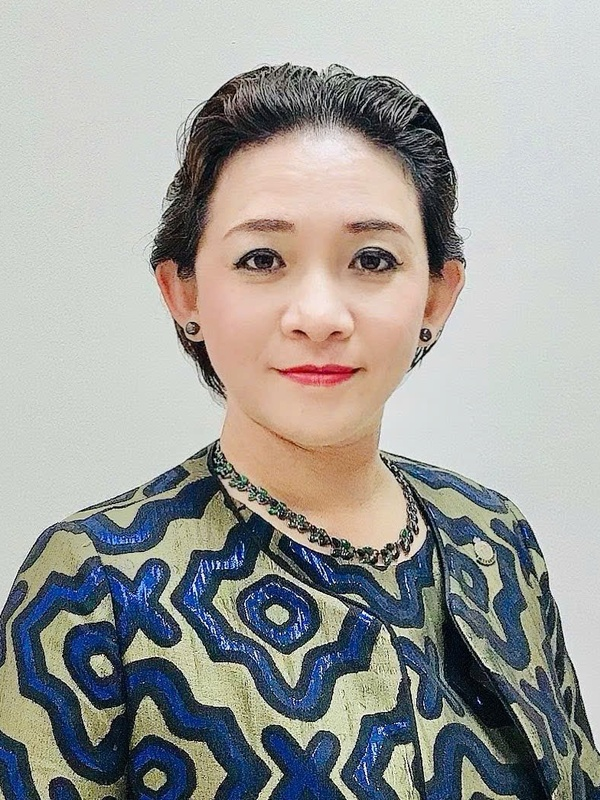
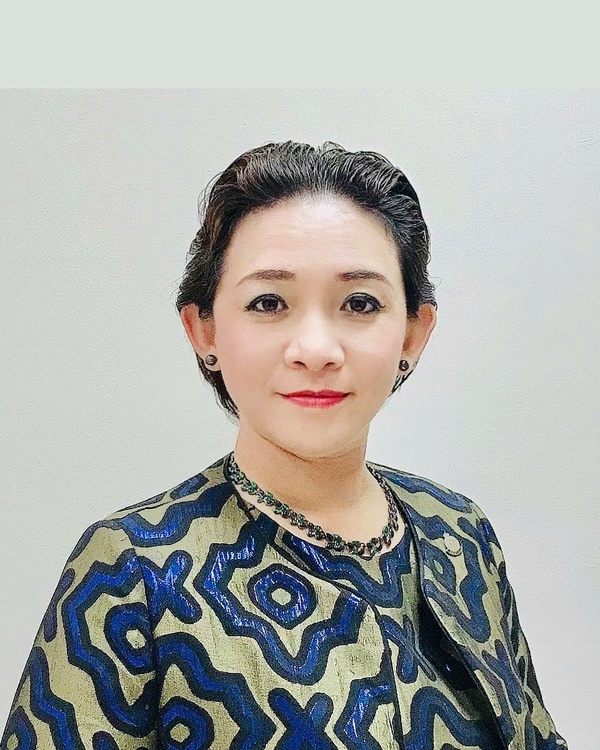
fix(team-photos): chuẩn hóa tỷ lệ chân dung aspect-[4/5] và đệm khoảng trống headroom cho toàn bộ 6 nhân sự, loại bỏ hoàn toàn việc bị cắt mặt/mất tóc

diff --git a/index.html b/index.html
@@ -663,14 +663,14 @@
         
         <!-- Member 1: LS Thảo -->
         <div class="bg-slate-50 rounded-2xl overflow-hidden border border-slate-200 shadow-sm hover:shadow-lg transition flex flex-col group">
-          <div class="h-80 overflow-hidden bg-slate-200">
-            <img src="assets/uploads/team/ls_pham_thi_thanh_thao_card.jpg" alt="Luật sư Phạm Thị Thanh Thảo" class="w-full h-full object-cover object-top group-hover:scale-105 transition duration-300" />
+          <div class="aspect-[4/5] overflow-hidden bg-slate-100 relative">
+            <img src="assets/uploads/team/ls_pham_thi_thanh_thao_card.jpg" alt="Luật sư Phạm Thị Thanh Thảo" class="w-full h-full object-cover object-top group-hover:scale-105 transition duration-500" />
           </div>
           <div class="p-6 flex-1 flex flex-col justify-between space-y-3">
             <div>
               <span class="text-xs font-bold text-brand-red uppercase tracking-wider block">Luật sư Điều hành</span>
               <h3 class="text-xl font-bold text-navy-900 mt-1">Luật sư Phạm Thị Thanh Thảo</h3>
-              <p class="text-sm text-slate-600 font-normal mt-2 leading-relaxed">
+              <p class="text-sm text-slate-600 font-normal mt-2 leading-relaxed text-justify">
                 Thạc sỹ Luật (ĐH Luật TP.HCM), Cử nhân Kinh tế, Cử nhân Luật. Nhiều năm kinh nghiệm pháp lý khách sạn, logistic cảng biển, doanh nghiệp, lao động và dân sự.
               </p>
             </div>
@@ -682,14 +682,14 @@
 
         <!-- Member 2: LS Sơn -->
         <div class="bg-slate-50 rounded-2xl overflow-hidden border border-slate-200 shadow-sm hover:shadow-lg transition flex flex-col group">
-          <div class="h-80 overflow-hidden bg-slate-200">
-            <img src="assets/uploads/team/ls_nguyen_thanh_son_card.jpg" alt="Luật sư Nguyễn Thành Sơn" class="w-full h-full object-cover object-top group-hover:scale-105 transition duration-300" />
+          <div class="aspect-[4/5] overflow-hidden bg-slate-100 relative">
+            <img src="assets/uploads/team/ls_nguyen_thanh_son_card.jpg" alt="Luật sư Nguyễn Thành Sơn" class="w-full h-full object-cover object-top group-hover:scale-105 transition duration-500" />
           </div>
           <div class="p-6 flex-1 flex flex-col justify-between space-y-3">
             <div>
               <span class="text-xs font-bold text-brand-red uppercase tracking-wider block">Giám đốc cấp cao</span>
               <h3 class="text-xl font-bold text-navy-900 mt-1">Luật sư Nguyễn Thành Sơn</h3>
-              <p class="text-sm text-slate-600 font-normal mt-2 leading-relaxed">
+              <p class="text-sm text-slate-600 font-normal mt-2 leading-relaxed text-justify">
                 Thạc sỹ Luật, nguyên Kiểm sát viên VKSND Tối cao tại TP.HCM, nguyên Phó Viện trưởng Học viện Tư pháp TP.HCM. Hơn 30 năm công tác trong ngành luật.
               </p>
             </div>
@@ -701,14 +701,14 @@
 
         <!-- Member 3: Cố vấn Thủy -->
         <div class="bg-slate-50 rounded-2xl overflow-hidden border border-slate-200 shadow-sm hover:shadow-lg transition flex flex-col group">
-          <div class="h-80 overflow-hidden bg-slate-200">
-            <img src="assets/uploads/team/co_van_ha_thanh_thuy_card.jpg" alt="Bà Hà Thanh Thủy" class="w-full h-full object-cover object-top group-hover:scale-105 transition duration-300" />
+          <div class="aspect-[4/5] overflow-hidden bg-slate-100 relative">
+            <img src="assets/uploads/team/co_van_ha_thanh_thuy_card.jpg" alt="Bà Hà Thanh Thủy" class="w-full h-full object-cover object-top group-hover:scale-105 transition duration-500" />
           </div>
           <div class="p-6 flex-1 flex flex-col justify-between space-y-3">
             <div>
               <span class="text-xs font-bold text-brand-red uppercase tracking-wider block">Cố vấn cấp cao</span>
               <h3 class="text-xl font-bold text-navy-900 mt-1">Luật gia Hà Thanh Thủy</h3>
-              <p class="text-sm text-slate-600 font-normal mt-2 leading-relaxed">
+              <p class="text-sm text-slate-600 font-normal mt-2 leading-relaxed text-justify">
                 Nguyên Thẩm phán TAND TP.HCM với hơn 30 năm kinh nghiệm trực tiếp xét xử các loại án dân sự, tranh chấp đất đai, kinh tế, hành chính và hôn nhân gia đình.
               </p>
             </div>
@@ -720,14 +720,14 @@
 
         <!-- Member 4: Cố vấn Uyên -->
         <div class="bg-slate-50 rounded-2xl overflow-hidden border border-slate-200 shadow-sm hover:shadow-lg transition flex flex-col group">
-          <div class="h-80 overflow-hidden bg-slate-200">
-            <img src="assets/uploads/team/co_van_le_thuy_dieu_uyen_card.jpg" alt="Bà Lê Thụy Diệu Uyên" class="w-full h-full object-cover object-top group-hover:scale-105 transition duration-300" />
+          <div class="aspect-[4/5] overflow-hidden bg-slate-100 relative">
+            <img src="assets/uploads/team/co_van_le_thuy_dieu_uyen_card.jpg" alt="Bà Lê Thụy Diệu Uyên" class="w-full h-full object-cover object-top group-hover:scale-105 transition duration-500" />
           </div>
           <div class="p-6 flex-1 flex flex-col justify-between space-y-3">
             <div>
               <span class="text-xs font-bold text-brand-red uppercase tracking-wider block">Cố vấn cấp cao</span>
               <h3 class="text-xl font-bold text-navy-900 mt-1">Bà Lê Thụy Diệu Uyên</h3>
-              <p class="text-sm text-slate-600 font-normal mt-2 leading-relaxed">
+              <p class="text-sm text-slate-600 font-normal mt-2 leading-relaxed text-justify">
                 Thạc sĩ Kinh tế tại Nhật Bản, Cử nhân Luật tại Việt Nam, NCS. Nhiều năm quản lý điều hành doanh nghiệp Nhật Bản; chuyên sâu Quản trị rủi ro, tái cấu trúc & M&A.
               </p>
             </div>
@@ -739,14 +739,14 @@
 
         <!-- Member 5: Luật gia Hoa -->
         <div class="bg-slate-50 rounded-2xl overflow-hidden border border-slate-200 shadow-sm hover:shadow-lg transition flex flex-col group">
-          <div class="h-80 overflow-hidden bg-slate-200">
-            <img src="assets/uploads/team/luat_gia_truong_thi_kim_hoa_card.jpg" alt="Bà Trương Thị Kim Hoa" class="w-full h-full object-cover object-top group-hover:scale-105 transition duration-300" />
+          <div class="aspect-[4/5] overflow-hidden bg-slate-100 relative">
+            <img src="assets/uploads/team/luat_gia_truong_thi_kim_hoa_card.jpg" alt="Bà Trương Thị Kim Hoa" class="w-full h-full object-cover object-top group-hover:scale-105 transition duration-500" />
           </div>
           <div class="p-6 flex-1 flex flex-col justify-between space-y-3">
             <div>
               <span class="text-xs font-bold text-brand-red uppercase tracking-wider block">Trưởng phòng Đăng ký – Giấy phép</span>
               <h3 class="text-xl font-bold text-navy-900 mt-1">ThS. Luật gia Trương Thị Kim Hoa</h3>
-              <p class="text-sm text-slate-600 font-normal mt-2 leading-relaxed">
+              <p class="text-sm text-slate-600 font-normal mt-2 leading-relaxed text-justify">
                 Thạc sỹ Luật (ĐH Luật TP.HCM), nguyên Công chức Tư pháp - hộ tịch UBND. Chuyên sâu thủ tục hành chính, giấy phép lưu trú người nước ngoài, đầu tư, SHTT.
               </p>
             </div>
@@ -758,14 +758,14 @@
 
         <!-- Member 6: CV Nguyên -->
         <div class="bg-slate-50 rounded-2xl overflow-hidden border border-slate-200 shadow-sm hover:shadow-lg transition flex flex-col group">
-          <div class="h-80 overflow-hidden bg-slate-200">
-            <img src="assets/uploads/team/chuyen_vien_huynh_phuong_nguyen_card.jpg" alt="Bà Huỳnh Phương Nguyên" class="w-full h-full object-cover object-top group-hover:scale-105 transition duration-300" />
+          <div class="aspect-[4/5] overflow-hidden bg-slate-100 relative">
+            <img src="assets/uploads/team/chuyen_vien_huynh_phuong_nguyen_card.jpg" alt="Bà Huỳnh Phương Nguyên" class="w-full h-full object-cover object-top group-hover:scale-105 transition duration-500" />
           </div>
           <div class="p-6 flex-1 flex flex-col justify-between space-y-3">
             <div>
               <span class="text-xs font-bold text-brand-red uppercase tracking-wider block">Chuyên viên pháp lý</span>
               <h3 class="text-xl font-bold text-navy-900 mt-1">Bà Huỳnh Phương Nguyên</h3>
-              <p class="text-sm text-slate-600 font-normal mt-2 leading-relaxed">
+              <p class="text-sm text-slate-600 font-normal mt-2 leading-relaxed text-justify">
                 Nhiều năm kinh nghiệm làm việc trong lĩnh vực pháp chế doanh nghiệp, rà soát hợp đồng kinh tế và kiểm soát tuân thủ quy trình nội bộ.
               </p>
             </div>

diff --git a/luat-su/index.html b/luat-su/index.html
@@ -380,7 +380,7 @@
         
         <!-- Profile 1: LS Thảo -->
         <div class="bg-white rounded-2xl p-7 sm:p-8 shadow-sm border border-slate-200 flex flex-col sm:flex-row gap-6 items-center sm:items-start hover:shadow-lg transition">
-          <img src="../assets/uploads/team/ls_pham_thi_thanh_thao_card.jpg" alt="Luật sư Phạm Thị Thanh Thảo" class="w-48 h-64 rounded-xl object-cover object-top flex-shrink-0 shadow" />
+          <img src="../assets/uploads/team/ls_pham_thi_thanh_thao_card.jpg" alt="Luật sư Phạm Thị Thanh Thảo" class="w-48 sm:w-56 aspect-[4/5] rounded-xl object-cover object-top flex-shrink-0 shadow border border-slate-200" />
           <div class="space-y-3 text-center sm:text-left flex-1">
             <div>
               <h3 class="text-xl font-bold text-navy-900">Luật sư Phạm Thị Thanh Thảo</h3>
@@ -399,7 +399,7 @@
 
         <!-- Profile 2: LS Sơn -->
         <div class="bg-white rounded-2xl p-7 sm:p-8 shadow-sm border border-slate-200 flex flex-col sm:flex-row gap-6 items-center sm:items-start hover:shadow-lg transition">
-          <img src="../assets/uploads/team/ls_nguyen_thanh_son_card.jpg" alt="Luật sư Nguyễn Thành Sơn" class="w-48 h-64 rounded-xl object-cover object-top flex-shrink-0 shadow" />
+          <img src="../assets/uploads/team/ls_nguyen_thanh_son_card.jpg" alt="Luật sư Nguyễn Thành Sơn" class="w-48 sm:w-56 aspect-[4/5] rounded-xl object-cover object-top flex-shrink-0 shadow border border-slate-200" />
           <div class="space-y-3 text-center sm:text-left flex-1">
             <div>
               <h3 class="text-xl font-bold text-navy-900">Luật sư Nguyễn Thành Sơn</h3>
@@ -418,7 +418,7 @@
 
         <!-- Profile 3: Cố vấn Thủy -->
         <div class="bg-white rounded-2xl p-7 sm:p-8 shadow-sm border border-slate-200 flex flex-col sm:flex-row gap-6 items-center sm:items-start hover:shadow-lg transition">
-          <img src="../assets/uploads/team/co_van_ha_thanh_thuy_card.jpg" alt="Luật gia Hà Thanh Thủy" class="w-48 h-64 rounded-xl object-cover object-top flex-shrink-0 shadow" />
+          <img src="../assets/uploads/team/co_van_ha_thanh_thuy_card.jpg" alt="Luật gia Hà Thanh Thủy" class="w-48 sm:w-56 aspect-[4/5] rounded-xl object-cover object-top flex-shrink-0 shadow border border-slate-200" />
           <div class="space-y-3 text-center sm:text-left flex-1">
             <div>
               <h3 class="text-xl font-bold text-navy-900">Bà Hà Thanh Thủy</h3>
@@ -436,7 +436,7 @@
 
         <!-- Profile 4: Cố vấn Uyên -->
         <div class="bg-white rounded-2xl p-7 sm:p-8 shadow-sm border border-slate-200 flex flex-col sm:flex-row gap-6 items-center sm:items-start hover:shadow-lg transition">
-          <img src="../assets/uploads/team/co_van_le_thuy_dieu_uyen_card.jpg" alt="Bà Lê Thụy Diệu Uyên" class="w-48 h-64 rounded-xl object-cover object-top flex-shrink-0 shadow" />
+          <img src="../assets/uploads/team/co_van_le_thuy_dieu_uyen_card.jpg" alt="Bà Lê Thụy Diệu Uyên" class="w-48 sm:w-56 aspect-[4/5] rounded-xl object-cover object-top flex-shrink-0 shadow border border-slate-200" />
           <div class="space-y-3 text-center sm:text-left flex-1">
             <div>
               <h3 class="text-xl font-bold text-navy-900">Bà Lê Thụy Diệu Uyên</h3>
@@ -454,7 +454,7 @@
 
         <!-- Profile 5: Luật gia Hoa -->
         <div class="bg-white rounded-2xl p-7 sm:p-8 shadow-sm border border-slate-200 flex flex-col sm:flex-row gap-6 items-center sm:items-start hover:shadow-lg transition">
-          <img src="../assets/uploads/team/luat_gia_truong_thi_kim_hoa_card.jpg" alt="ThS. Luật gia Trương Thị Kim Hoa" class="w-48 h-64 rounded-xl object-cover object-top flex-shrink-0 shadow" />
+          <img src="../assets/uploads/team/luat_gia_truong_thi_kim_hoa_card.jpg" alt="ThS. Luật gia Trương Thị Kim Hoa" class="w-48 sm:w-56 aspect-[4/5] rounded-xl object-cover object-top flex-shrink-0 shadow border border-slate-200" />
           <div class="space-y-3 text-center sm:text-left flex-1">
             <div>
               <h3 class="text-xl font-bold text-navy-900">ThS. Luật gia Trương Thị Kim Hoa</h3>
@@ -472,7 +472,7 @@
 
         <!-- Profile 6: CV Nguyên -->
         <div class="bg-white rounded-2xl p-7 sm:p-8 shadow-sm border border-slate-200 flex flex-col sm:flex-row gap-6 items-center sm:items-start hover:shadow-lg transition">
-          <img src="../assets/uploads/team/chuyen_vien_huynh_phuong_nguyen_card.jpg" alt="Bà Huỳnh Phương Nguyên" class="w-48 h-64 rounded-xl object-cover object-top flex-shrink-0 shadow" />
+          <img src="../assets/uploads/team/chuyen_vien_huynh_phuong_nguyen_card.jpg" alt="Bà Huỳnh Phương Nguyên" class="w-48 sm:w-56 aspect-[4/5] rounded-xl object-cover object-top flex-shrink-0 shadow border border-slate-200" />
           <div class="space-y-3 text-center sm:text-left flex-1">
             <div>
               <h3 class="text-xl font-bold text-navy-900">Bà Huỳnh Phương Nguyên</h3>
